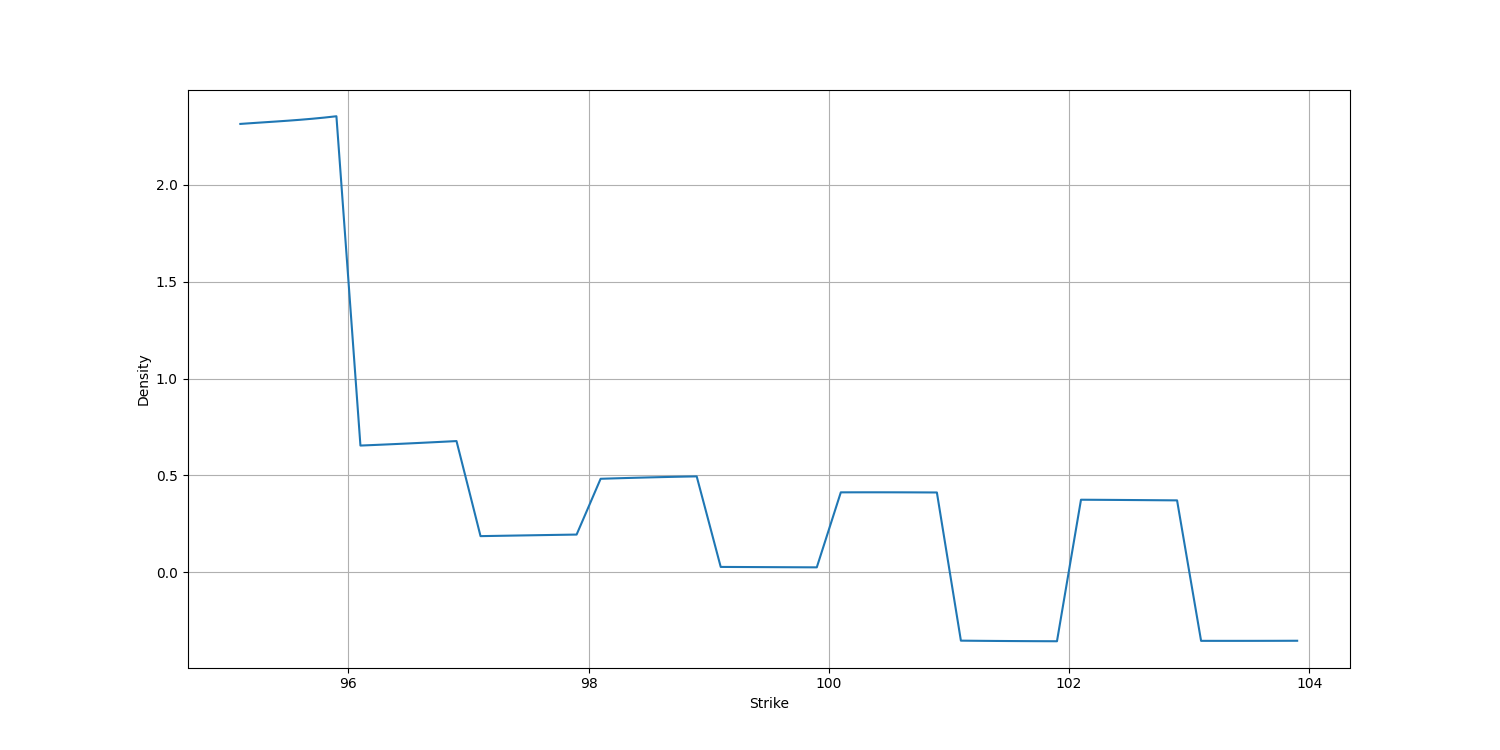
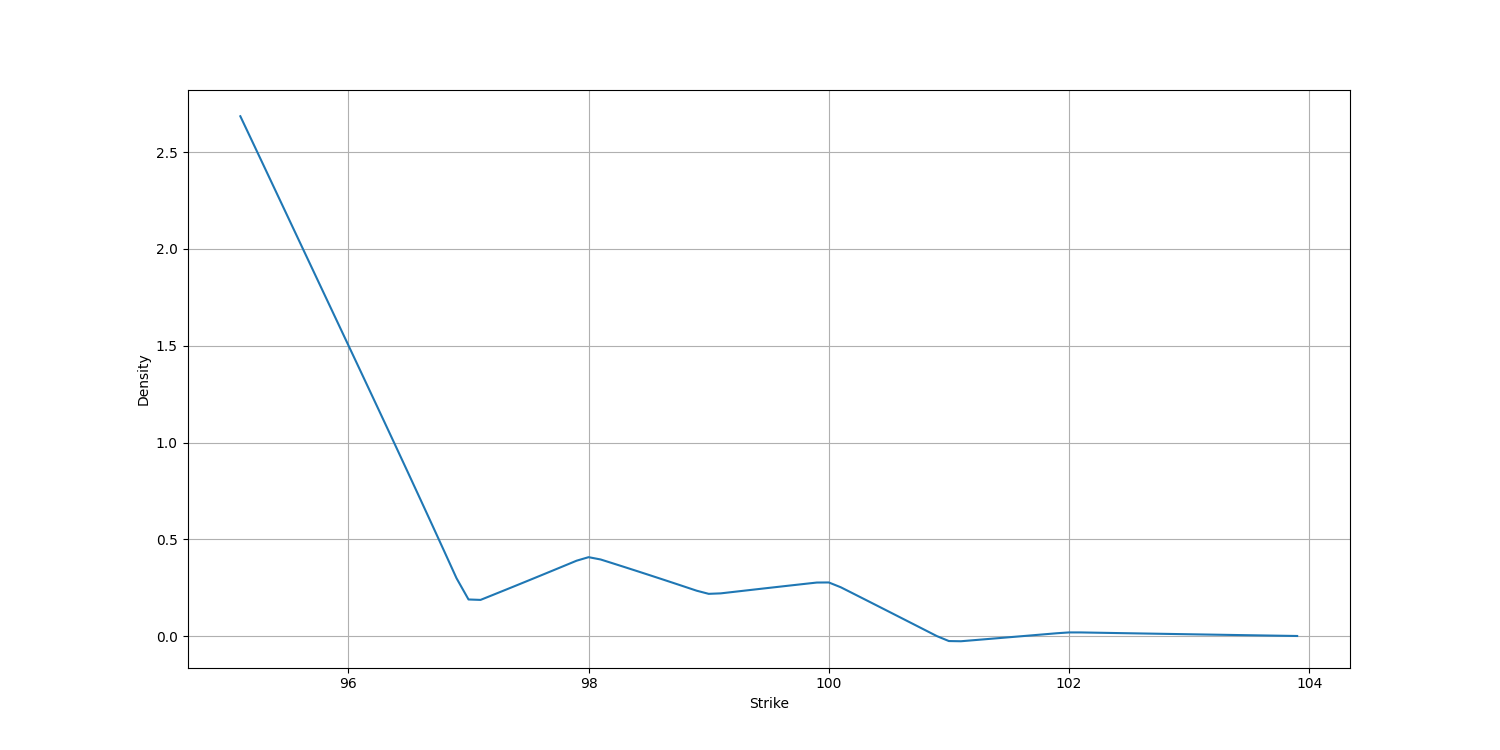
Updated Vol Surface Interpolation

diff --git a/main_2.py b/main_2.py
@@ -43,12 +43,14 @@ axs6.set_zlabel("IV")
 fig6.savefig('results/2.1_Volatility_Surface.png')
 
 # Compute New Option BS Price (K=99.5, T=8M)
-strike_interp_6M = interpolation.Interp2D(x_list=df_mkt["Strike"], y_list=df_mkt["IV (6M)"])
-strike_interp_9M = interpolation.Interp2D(x_list=df_mkt["Strike"], y_list=df_mkt["IV (9M)"])
-maturity_interp = interpolation.Interp1D(x_list=[6, 9], y_list=[strike_interp_6M.get_image(99.5), strike_interp_9M.get_image(99.5)])
-BS_price = black_scholes.BS_Price(f=100, k=99.5, t=8 / 12, v=maturity_interp.get_image(8), df=1, OptType="C")
+strike_interp_6M = interpolation.Interp3D(x_list=df_mkt["Strike"], y_list=df_mkt["IV (6M)"])
+strike_interp_9M = interpolation.Interp3D(x_list=df_mkt["Strike"], y_list=df_mkt["IV (9M)"])
+maturity_interp = interpolation.Interp1D(x_list=[6, 9], y_list=[pow(strike_interp_6M.get_image(99.5), 2)*6/12,
+                                                                pow(strike_interp_9M.get_image(99.5), 2)*9/12])
+iv = np.sqrt(maturity_interp.get_image(8)/(8/12))
+BS_price = black_scholes.BS_Price(f=100, k=99.5, t=8 / 12, v=iv, df=1, OptType="C")
 print(f"\nBlack-Scholes")
-print(f" - Implied Vol: {maturity_interp.get_image(8)}")
+print(f" - Implied Vol: {iv}")
 print(f" - Price: {BS_price}")
 
 # Create Interpolated Local volatilities Dataframe
@@ -56,7 +58,8 @@ df_local_vol = pd.DataFrame()
 df_local_vol["Strike"] = np.arange(min(df_mkt["Strike"]), max(df_mkt["Strike"]+step), step)
 df_local_vol["IV (6M)"] = df_local_vol.apply(lambda x: strike_interp_6M.get_image(x=x["Strike"]), axis=1)
 df_local_vol["IV (9M)"] = df_local_vol.apply(lambda x: strike_interp_9M.get_image(x=x["Strike"]), axis=1)
-df_local_vol["IV (8M)"] = df_local_vol.apply(lambda x: interpolation.Interp1D(x_list=[6, 9], y_list=[strike_interp_6M.get_image(x["Strike"]), strike_interp_9M.get_image(x["Strike"])]).get_image(8), axis=1)
+df_local_vol["IV (8M)"] = df_local_vol.apply(lambda x: np.sqrt(interpolation.Interp1D(x_list=[6, 9],
+                                                                              y_list=[pow(strike_interp_6M.get_image(x["Strike"]), 2) * 6/12, pow(strike_interp_9M.get_image(x["Strike"]), 2) * 9/12]).get_image(8) / (8/12)), axis=1)
 
 # Plot & Save Graph: Interpolated Volatilities (8M)
 fig7, axs7 = plt.subplots(nrows=1, ncols=1, figsize=(15, 7.5))
@@ -79,28 +82,31 @@ fig7.savefig('results/2.2_Interpolated_Volatilities_8M.png')
 # Create Interpolated Volatility Surface
 df_dupire_vol = pd.DataFrame()
 df_dupire_vol["Strike"] = np.arange(min(df_mkt["Strike"]), max(df_mkt["Strike"])+step, step)
+
 # Squared Interpolation On Strikes
 for matu in [3, 6, 9, 12]:
-    strike_interp = interpolation.Interp2D(x_list=df_mkt["Strike"], y_list=df_mkt[f"IV ({matu}M)"])
+    strike_interp = interpolation.Interp3D(x_list=df_mkt["Strike"], y_list=df_mkt[f"IV ({matu}M)"])
     df_dupire_vol[f"{matu}"] = df_dupire_vol.apply(lambda x: strike_interp.get_image(x["Strike"]), axis=1)
-# Linear Interpolation On Maturities
+
+# Linear Interpolation On Total Variance
 for strike in df_dupire_vol["Strike"]:
     maturity_interp = interpolation.Interp1D(x_list=[3, 6, 9, 12],
-                                     y_list=[df_dupire_vol[df_dupire_vol["Strike"] == strike]["3"].values[0],
-                                             df_dupire_vol[df_dupire_vol["Strike"] == strike]["6"].values[0],
-                                             df_dupire_vol[df_dupire_vol["Strike"] == strike]["9"].values[0],
-                                             df_dupire_vol[df_dupire_vol["Strike"] == strike]["12"].values[0]])
+                                     y_list=[pow(df_dupire_vol[df_dupire_vol["Strike"] == strike]["3"].values[0], 2) * 3/12,
+                                             pow(df_dupire_vol[df_dupire_vol["Strike"] == strike]["6"].values[0], 2) * 6/12,
+                                             pow(df_dupire_vol[df_dupire_vol["Strike"] == strike]["9"].values[0], 2) * 9/12,
+                                             pow(df_dupire_vol[df_dupire_vol["Strike"] == strike]["12"].values[0], 2) * 12/12])
     for matu in np.arange(3, 12+step, step):
         index = df_dupire_vol[df_dupire_vol["Strike"] == strike].index[0]
-        df_dupire_vol.loc[index, round(matu, 2)] = maturity_interp.get_image(round(matu, 2))
+        df_dupire_vol.loc[index, round(matu, 2)] = np.sqrt(maturity_interp.get_image(round(matu, 2)) / (matu / 12))
 df_dupire_vol.drop(["3", "6", "9", "12"], axis=1, inplace=True)
+
 # Create Interpolated Price Surface
 df_dupire_price = pd.DataFrame()
 df_dupire_price["Strike"] = df_dupire_vol["Strike"]
 for matu in df_dupire_vol.columns[1:]:
     df_dupire_price[matu] = df_dupire_vol.apply(lambda x: black_scholes.BS_Price(df=1, f=100, k=x["Strike"], t=matu / 12, v=x[matu], OptType="C"), axis=1)
 
-# Create Dupire DataFrame
+# Create Dupire Surface
 df_dupire = pd.DataFrame()
 df_dupire["Strike"] = df_dupire_price["Strike"]
 for matu in df_dupire_price.columns[1:]:
@@ -109,6 +115,9 @@ for matu in df_dupire_price.columns[1:]:
     theta = (df_dupire_price[round(matu+step,2)] - df_dupire_price[matu]) / (step / 12) if round(matu, 2) != 12.0 else np.NaN
     df_dupire[matu] = np.sqrt(2 * theta / (np.power(df_dupire["Strike"], 2) * gamma))
 print(df_dupire)
+
+# Price Using Dupire Surface (Local Vol)
+
 
 # Display Graphs
 plt.show()

diff --git a/main_1.py b/main_1.py
@@ -42,7 +42,7 @@ df_density["Strike"] = np.arange(min(df_mkt["Strike"]), max(df_mkt["Strike"])+st
 df_density["IV (1D)"] = df_density.apply(lambda x: linear_interp.get_image(x["Strike"]), axis=1)
 df_density["IV (2D)"] = df_density.apply(lambda x: squared_interp.get_image(x["Strike"]), axis=1)
 df_density["IV (3D)"] = df_density.apply(lambda x: cubic_interp.get_image(x["Strike"]), axis=1)
-df_density["IV"] = df_density["IV (2D)"]
+df_density["IV"] = df_density["IV (3D)"]
 df_density["Price"] = df_density.apply(
     lambda x: black_scholes.BS_Price(df=1, f=100, k=x["Strike"], t=1, v=x["IV"], OptType="C"), axis=1)
 
